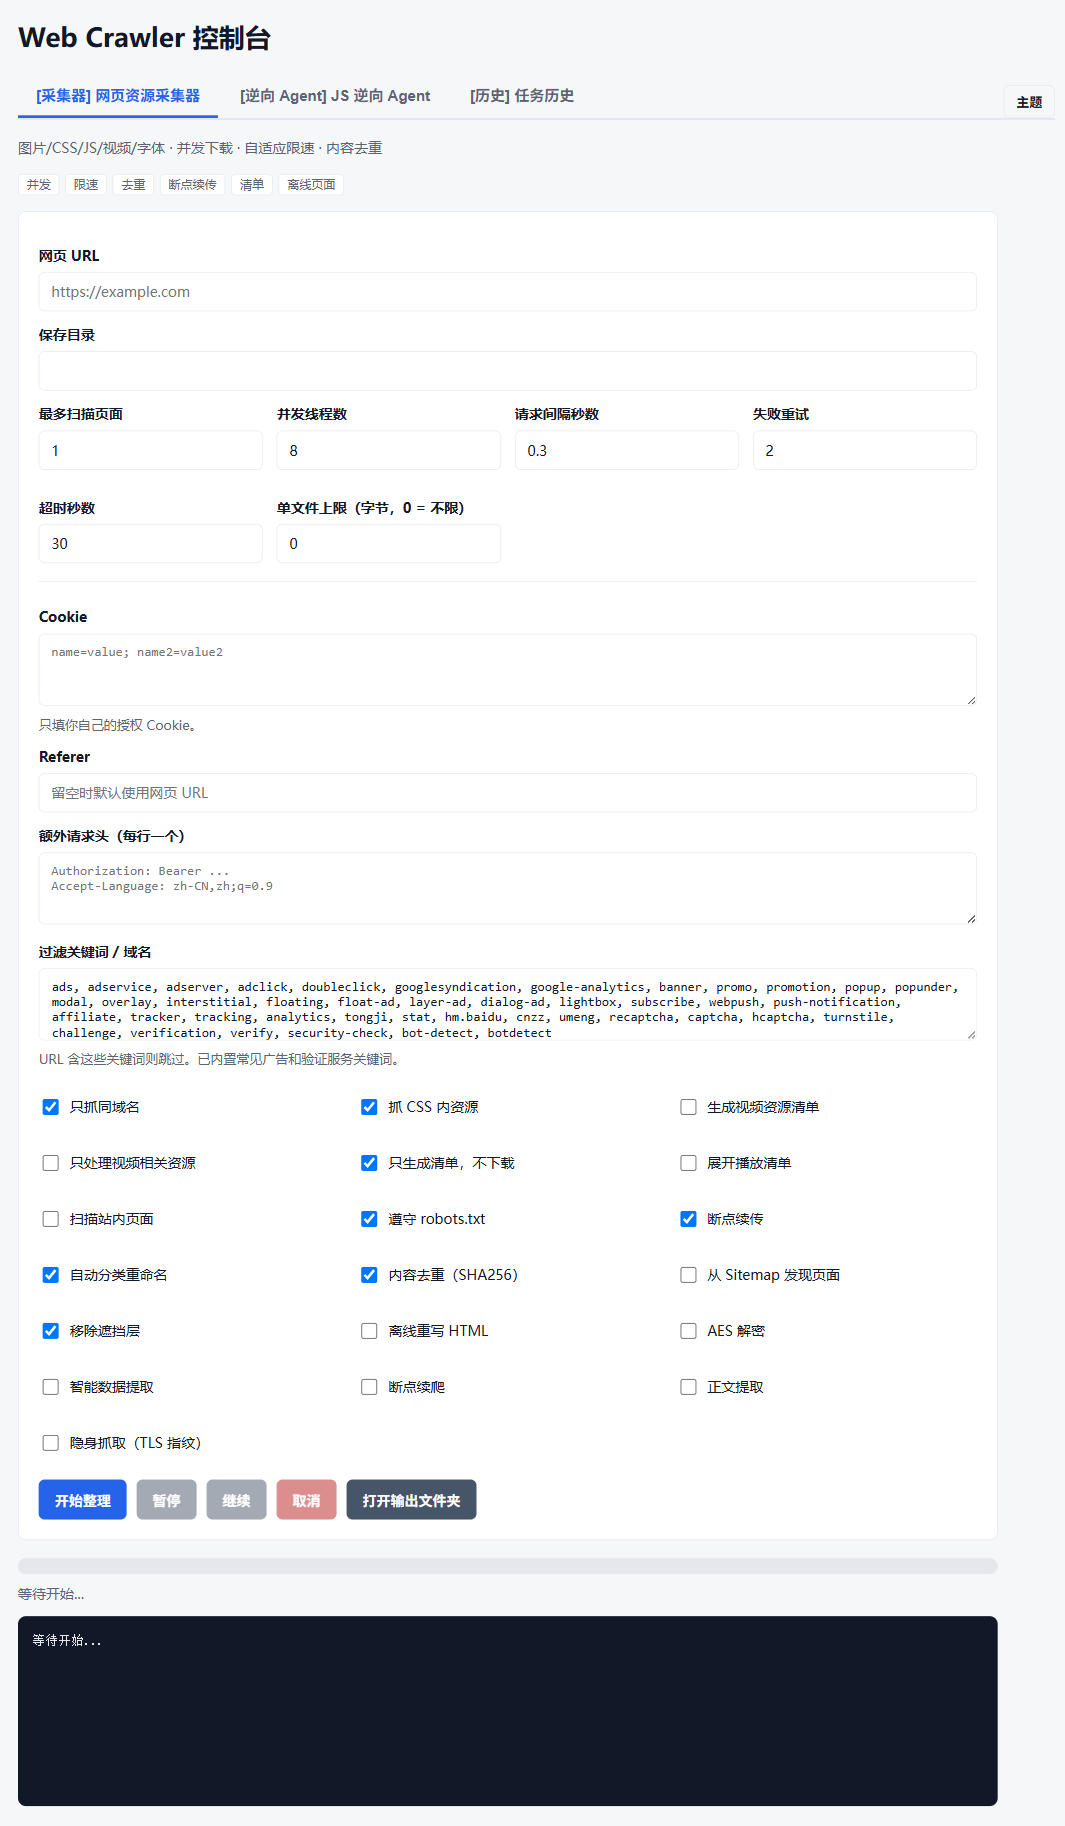
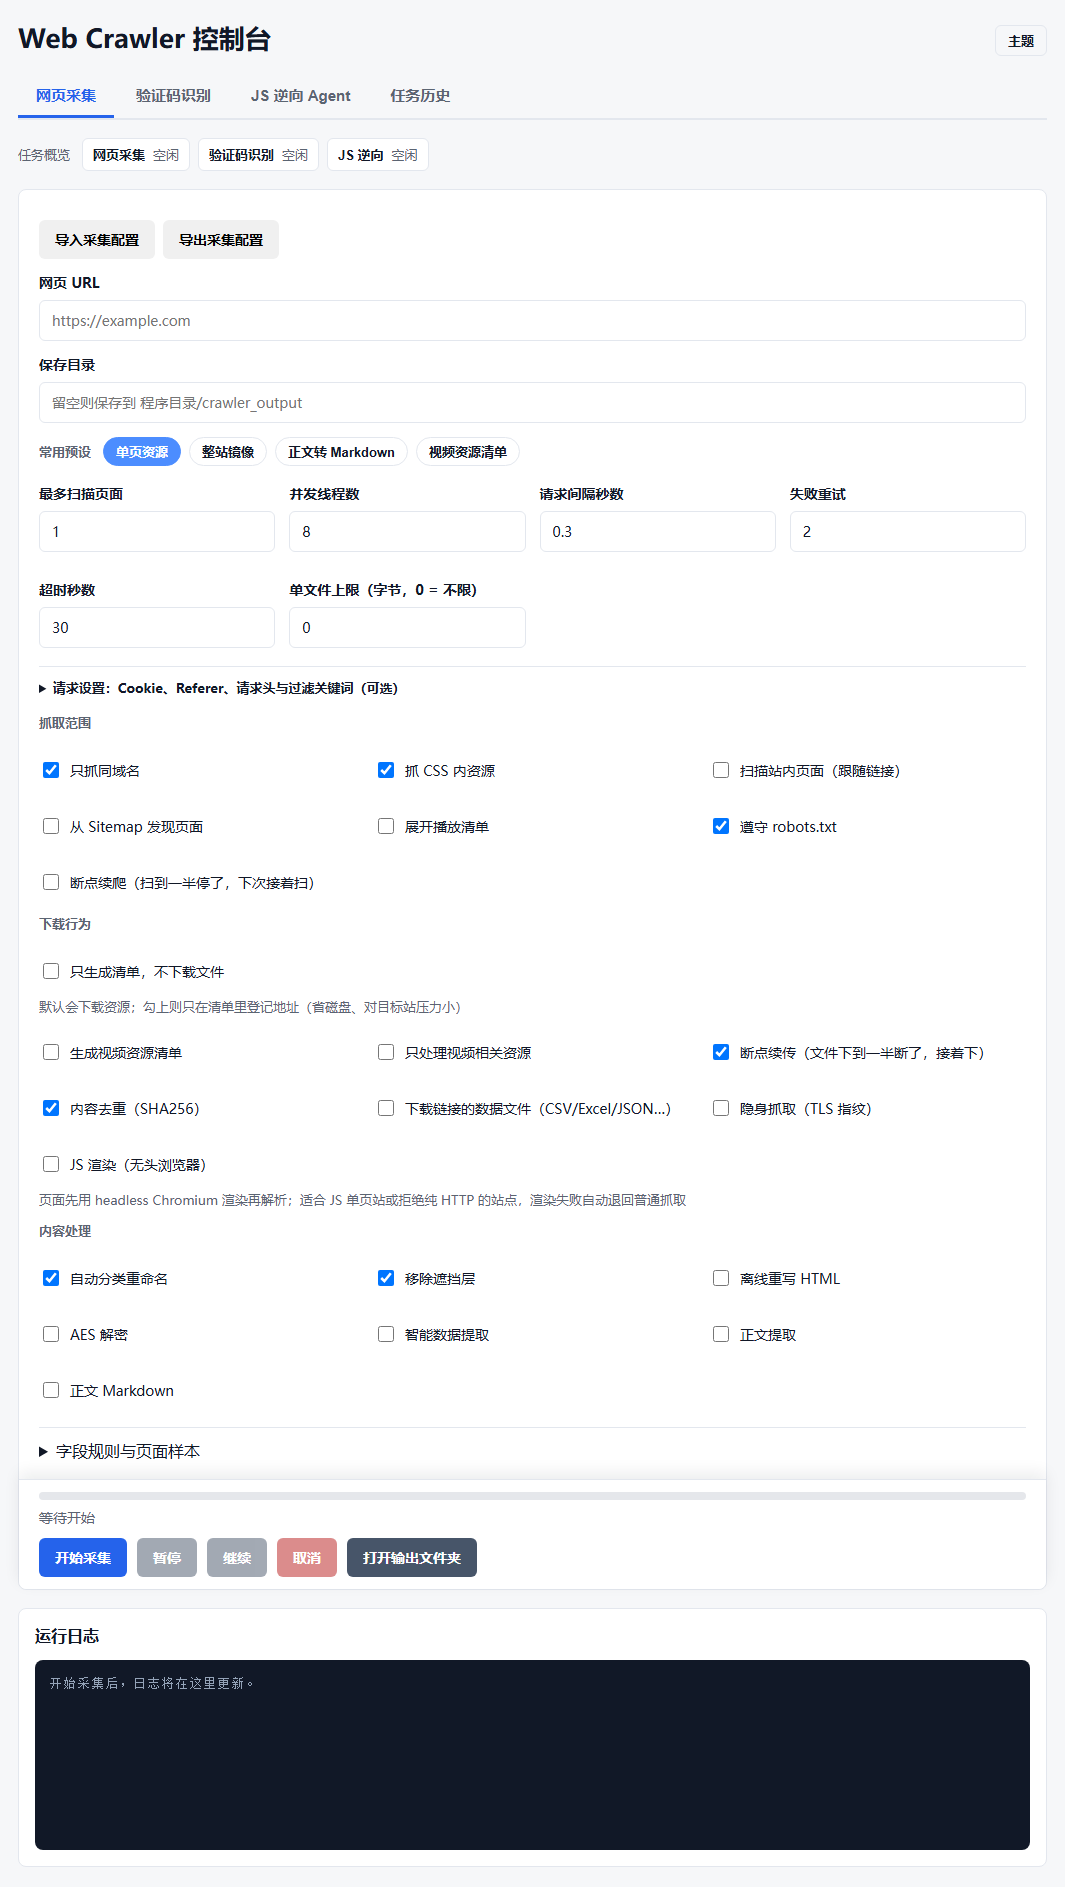
feat(ui): 采集预设与冲突置灰、移动端触控，文档收尾
- 「常用预设」一键套用并高亮；list_only 时仅下载阶段生效的选项置灰（不禁用、不改提交字段）
- 预设按钮移动端 44px 触控高度；请求设置折叠；修正抓取范围标题间距
- crawler-ui --help 的 prog 改为 crawler-ui
- README / quickstart 补 Web UI 三分钟、命令数（7 个）与满血版启动器说明
- 重拍控制台截图

diff --git a/src/web_crawler/app/static/index.html b/src/web_crawler/app/static/index.html
@@ -70,6 +70,21 @@
     textarea { min-height: 72px; resize: vertical; font-family: Consolas, monospace; font-size: 13px; }
     .row { display: grid; grid-template-columns: repeat(4, 1fr); gap: 14px; }
     .opt-group { margin-bottom: 14px; }
+    /* 折叠的「请求设置」后面紧跟「抓取范围」标题，需要额外上边距，否则标题贴着摘要行 */
+    .section + .opt-group { margin-top: 18px; }
+    /* 选项网格里的说明文字独占一整行，避免挤进某个格子把后续复选框顶乱 */
+    .grid > .hint { grid-column: 1 / -1; margin-top: -4px; }
+    /* 预设按钮条 */
+    .preset-bar { display: flex; flex-wrap: wrap; align-items: center; gap: 8px; margin: 14px 0 4px; }
+    .preset-label { font-size: 13px; font-weight: 600; color: var(--muted); margin-right: 4px; }
+    .preset-btn { padding: 5px 12px; border-radius: 999px; border: 1px solid var(--border); background: transparent; color: var(--text); font-size: 13px; cursor: pointer; }
+    .preset-btn:hover { border-color: var(--accent, #4c8dff); }
+    .preset-btn[aria-pressed="true"] { background: var(--accent, #4c8dff); border-color: var(--accent, #4c8dff); color: #fff; }
+    .preset-status { margin: 0 0 0 4px; }
+    /* 当前组合下不生效的选项：置灰但保留勾选值（仍随表单提交，不改变既有语义） */
+    .is-moot { opacity: .45; }
+    .is-moot::after { content: "（当前不生效）"; font-size: 12px; font-weight: 400; color: var(--muted); }
+    #crawler-request-settings > summary { cursor: pointer; font-weight: 600; font-size: 13px; }
     .opt-group h4 { margin: 0 0 8px; font-size: 13px; color: var(--text-muted, #888); font-weight: 600; }
     .grid { display: grid; grid-template-columns: repeat(3, minmax(0, 1fr)); gap: 12px 18px; margin-top: 14px; }
     .check { display: flex; align-items: center; gap: 8px; font-weight: 500; color: var(--text); font-size: 14px; cursor: pointer; }
@@ -106,6 +121,8 @@
       .action-dock { padding: 10px 20px; }
       .action-dock .buttons { gap: 8px; }
       .action-dock .buttons button { flex: 1 1 auto; padding: 10px 12px; }
+      /* 触控目标不低于 44px；桌面端保持胶囊按钮的紧凑高度 */
+      .preset-btn { min-height: 44px; }
     }
 
     /* ========== JS 逆向 Agent 面板 ========== */
@@ -354,6 +371,14 @@
           <label for="out">保存目录</label>
           <input id="out" name="out" type="text" value="" placeholder="留空则保存到 程序目录/crawler_output">
 
+          <div class="preset-bar" role="group" aria-label="常用预设">
+            <span class="preset-label">常用预设</span>
+            <button type="button" class="preset-btn" data-preset="single" title="只抓当前页的图片、CSS、JS 等资源并下载">单页资源</button>
+            <button type="button" class="preset-btn" data-preset="mirror" title="跟随站内链接与 Sitemap，重写 HTML 便于离线浏览">整站镜像</button>
+            <button type="button" class="preset-btn" data-preset="markdown" title="只把正文转成 Markdown，不下载页面资源">正文转 Markdown</button>
+            <button type="button" class="preset-btn" data-preset="video" title="只登记视频相关资源地址（含播放列表地址），不展开分段、不下载文件">视频资源清单</button>
+            <span id="preset-status" class="hint preset-status" role="status"></span>
+          </div>
           <div class="row">
             <div><label for="max_pages">最多扫描页面</label><input id="max_pages" name="max_pages" type="number" min="1" value="1"></div>
             <div><label for="workers">并发线程数</label><input id="workers" name="workers" type="number" min="1" max="64" value="8"></div>
@@ -366,7 +391,8 @@
             <div></div><div></div>
           </div>
 
-          <div class="section">
+          <details id="crawler-request-settings" class="section">
+            <summary>请求设置：Cookie、Referer、请求头与过滤关键词（可选）</summary>
             <label for="cookie">Cookie</label>
             <textarea id="cookie" name="cookie" placeholder="name=value; name2=value2"></textarea>
             <div class="hint">只填你自己的授权 Cookie。</div>
@@ -380,7 +406,7 @@
             <label for="block_keywords">过滤关键词 / 域名</label>
             <textarea id="block_keywords" name="block_keywords">{block_keywords}</textarea>
             <div class="hint">URL 含这些关键词则跳过。已内置常见广告和验证服务关键词。</div>
-          </div>
+          </details>
 
           <div class="opt-group">
             <h4>抓取范围</h4>
@@ -817,6 +843,11 @@
         else field.value = config[name] == null ? '' : String(config[name]);
       });
       if (config.field_rules) document.getElementById('crawler-rule-settings').open = true;
+      if (window.__crawlPresetSync) window.__crawlPresetSync();
+      // 导入的配置带了请求设置时自动展开，避免用户看不到被填进折叠区的值
+      if (['referer', 'headers'].some(function(n) { return config[n]; }) || (config.block_keyword && config.block_keyword.length)) {
+        document.getElementById('crawler-request-settings').open = true;
+      }
     }
     var configFeedback = document.getElementById('crawl-config-status');
     var configFile = document.getElementById('crawl-config-file');
@@ -2601,6 +2632,74 @@
 
     capRefreshJobs();
     setInterval(capRefreshJobs, 15000);
+  })();
+  </script>
+  <script>
+  // 采集预设 + 选项冲突提示。只改复选框/数字框的值，不禁用任何控件，
+  // 因此提交的表单字段与手动勾选完全一致。
+  (function() {
+    var form = document.getElementById('crawler-form');
+    if (!form) return;
+    var BASE = {
+      same_domain: true, include_css_urls: true, crawl_pages: false, sitemap: false,
+      expand_playlists: false, resume_crawl: false, list_only: false, video_mode: false,
+      video_only: false, resume: true, dedup: true, download_linked_data: false,
+      organize: true, strip_overlays: true, rewrite_html: false, smart_extract: false,
+      extract_text: false, extract_markdown: false
+    };
+    var PRESETS = {
+      single: { checks: {}, max_pages: 1, label: '单页资源' },
+      mirror: { checks: { crawl_pages: true, sitemap: true, rewrite_html: true, resume_crawl: true, organize: false }, max_pages: 200, label: '整站镜像' },
+      markdown: { checks: { list_only: true, extract_markdown: true }, max_pages: 1, label: '正文转 Markdown' },
+      video: { checks: { list_only: true, video_mode: true, video_only: true }, max_pages: 1, label: '视频资源清单' }
+    };
+    // 勾选「只生成清单」后不再下载文件，这些只在下载阶段起作用的选项不会生效
+    var MOOT_WHEN_LIST_ONLY = ['resume', 'dedup', 'decrypt', 'include_css_urls', 'expand_playlists', 'max_bytes'];
+    var buttons = Array.prototype.slice.call(document.querySelectorAll('.preset-btn'));
+    var statusEl = document.getElementById('preset-status');
+    var el = function(name) { return form.elements.namedItem(name); };
+
+    function presetValues(key) {
+      var p = PRESETS[key], v = {};
+      Object.keys(BASE).forEach(function(k) { v[k] = k in p.checks ? p.checks[k] : BASE[k]; });
+      return v;
+    }
+    function matchesPreset(key) {
+      var v = presetValues(key);
+      var ok = Object.keys(v).every(function(k) { var f = el(k); return !f || f.checked === v[k]; });
+      var mp = el('max_pages');
+      return ok && (!mp || Number(mp.value) === PRESETS[key].max_pages);
+    }
+    function syncMoot() {
+      var listOnly = el('list_only') && el('list_only').checked;
+      MOOT_WHEN_LIST_ONLY.forEach(function(name) {
+        var f = el(name); if (!f) return;
+        var box = f.type === 'checkbox' ? f.closest('label') : f.closest('div');
+        if (!box) return;
+        box.classList.toggle('is-moot', !!listOnly);
+        if (listOnly) box.title = '已勾选「只生成清单，不下载文件」，此项只在下载时生效';
+        else box.removeAttribute('title');
+      });
+    }
+    function sync() {
+      var active = null;
+      Object.keys(PRESETS).forEach(function(k) { if (!active && matchesPreset(k)) active = k; });
+      buttons.forEach(function(b) { b.setAttribute('aria-pressed', String(b.dataset.preset === active)); });
+      statusEl.textContent = active ? '' : '当前为自定义组合';
+      syncMoot();
+    }
+    function apply(key) {
+      var v = presetValues(key);
+      Object.keys(v).forEach(function(k) { var f = el(k); if (f) f.checked = v[k]; });
+      var mp = el('max_pages'); if (mp) mp.value = PRESETS[key].max_pages;
+      sync();
+      statusEl.textContent = '已应用「' + PRESETS[key].label + '」，可继续微调下面的选项';
+    }
+    buttons.forEach(function(b) { b.addEventListener('click', function() { apply(b.dataset.preset); }); });
+    form.addEventListener('change', sync);
+    form.addEventListener('input', function(e) { if (e.target && e.target.name === 'max_pages') sync(); });
+    window.__crawlPresetSync = sync;
+    sync();
   })();
   </script>
 </body>

diff --git a/tests/test_ui_presets.py b/tests/test_ui_presets.py
@@ -1,0 +1,55 @@
+"""控制台采集预设：预设与冲突提示引用的字段必须真实存在于采集表单。
+
+预设脚本按 name 查找表单控件，字段改名后会静默失效，这里做静态防线。
+"""
+
+from __future__ import annotations
+
+import re
+
+from web_crawler.app import _ui_helpers as ui
+
+
+def _crawler_form_names() -> set[str]:
+    page = ui.PAGE
+    start = page.index('<form id="crawler-form">')
+    end = page.index("</form>", start)
+    return set(re.findall(r'name="([a-z_]+)"', page[start:end]))
+
+
+def _preset_script() -> str:
+    page = ui.PAGE
+    start = page.index("var BASE = {")
+    return page[start : page.index("window.__crawlPresetSync = sync", start)]
+
+
+def test_preset_buttons_cover_all_presets():
+    script = _preset_script()
+    declared = set(re.findall(r"^\s{6}(\w+): \{ checks:", script, re.MULTILINE))
+    buttons = set(re.findall(r'data-preset="(\w+)"', ui.PAGE))
+    assert declared == buttons == {"single", "mirror", "markdown", "video"}
+
+
+def test_preset_fields_exist_in_form():
+    names = _crawler_form_names()
+    script = _preset_script()
+    base = script[: script.index("};")]
+    referenced = set(re.findall(r"(\w+): (?:true|false)", script)) | set(
+        re.findall(r"(\w+): (?:true|false)", base)
+    )
+    moot = re.search(r"MOOT_WHEN_LIST_ONLY = \[(.*?)\]", script).group(1)
+    referenced |= set(re.findall(r"'(\w+)'", moot))
+    missing = referenced - names
+    assert not missing, f"预设引用了表单中不存在的字段：{sorted(missing)}"
+
+
+def test_single_preset_matches_form_defaults():
+    """首次打开页面时应自动高亮「单页资源」：BASE 必须与表单默认勾选一致。"""
+    page = ui.PAGE
+    form = page[page.index('<form id="crawler-form">') : page.index("</form>")]
+    base = _preset_script()
+    base = base[: base.index("};")]
+    for name, value in re.findall(r"(\w+): (true|false)", base):
+        tag = re.search(rf'<input type="checkbox" name="{name}"[^>]*>', form)
+        assert tag, name
+        assert ("checked" in tag.group(0)) == (value == "true"), name

diff --git a/src/web_crawler/app/ui.py b/src/web_crawler/app/ui.py
@@ -83,7 +83,7 @@ def main() -> None:
 
     from web_crawler import __version__
 
-    _parser = _ap.ArgumentParser(description="Web Resource Crawler UI")
+    _parser = _ap.ArgumentParser(prog="crawler-ui", description="Web 资源采集控制台（本地 Web UI）")
     _parser.add_argument(
         "-V",
         "--version",

diff --git a/README.md b/README.md
@@ -15,6 +15,15 @@ Scrapling 风格的隐身网页爬虫库：**自适应选择器**、**TLS 指纹
 
 📖 **完整文档**（架构详解 / API 参考 / 逆向 Agent 手册）：[https://xiaomaozjj666.github.io/web-crawler/](https://xiaomaozjj666.github.io/web-crawler/)
 
+## 最快上手
+
+```bash
+pip install "stealth-web-crawler[all]"    # 核心 + TLS 隐身 + JS 渲染；源码安装见「安装与运行」
+python -m web_crawler.app.ui --open       # 本地控制台：http://127.0.0.1:8765
+```
+
+写代码时导入名是 `web_crawler`（发行名是 `stealth-web-crawler`）；抓取 / 解析 / Spider 三段示例见 [快速开始](#快速开始)，Docker 与 MCP 接入见 [安装与运行](#安装与运行)。
+
 ## 分层架构
 
 ```mermaid
@@ -43,7 +52,7 @@ flowchart TB
 
 ## 界面预览
 
-本地 Web UI（`python -m web_crawler.app.ui`，默认 http://127.0.0.1:8765）：网页采集（图片/JS/视频/文件下载、并发与断点续传）、JS 逆向 Agent、任务历史三个入口，SSE 实时推送进度与日志。
+本地 Web UI（`python -m web_crawler.app.ui`，默认 http://127.0.0.1:8765）：网页采集（图片/JS/视频/文件下载、并发与断点续传）、JS 逆向 Agent、任务历史三个入口，SSE 实时推送进度与日志。表单顶部提供「常用预设」（单页资源 / 整站镜像 / 正文转 Markdown / 视频资源清单），一键勾好一组选项后仍可微调；勾选「只生成清单，不下载文件」后，仅下载阶段生效的选项会置灰并标注「当前不生效」，但不会禁用控件、也不改变提交的字段。
 
 | 网页采集控制台 · 本地 Web UI |
 | :---: |
@@ -353,10 +362,11 @@ playwright install chromium        # 仅 DynamicFetcher / StealthyFetcher 需要
 | `web-crawler-reverse` | JS 逆向 Agent 命令行 |
 | `web-crawler-startproject` | 爬虫项目脚手架（对标 `scrapy startproject`）：生成含示例 Spider 的可跑骨架 |
 | `web-crawler-shell` | 交互式调试 shell（对标 `scrapy shell`）：`fetch <url>` 后即时试 css/xpath/links |
+| `web-captcha` | 图片验证码识别 CLI（文本 OCR / 滑块定位 / 点选坐标） |
 
 ### 统一 CLI 输出与爬取反馈
 
-六个入口均提供互斥的 `-q/--quiet`、`-v/--verbose`、`--json`：
+七个入口均提供互斥的 `-q/--quiet`、`-v/--verbose`、`--json`：
 
 | 模式 | 行为 |
 | --- | --- |
@@ -428,9 +438,9 @@ py -m web_crawler.app.ui --host 0.0.0.0 --port 8765 --allow-remote
 PYTHONPATH=src python -m web_crawler.app.ui --open
 ```
 
-> 本仓库不附带任何一键启动脚本。个人如需解锁内网/云元数据目标，可在
-> **自己的可信环境**里设置 `WEB_CRAWLER_POWER_MODE=1` 后运行
-> （见下方 [Power Mode](#-power-mode个人全解锁默认关闭) 章节）。
+> 仓库根目录的 `启动爬虫-满血版.cmd` 是个人可信环境用的启动器：它会设置
+> `WEB_CRAWLER_POWER_MODE=1`（解锁内网/云元数据目标），**不要**在有真实
+> 凭据的机器上随意运行。常规使用请按上面的 `web-crawler` / `crawler-ui` 启动。
 
 ### Docker
 

diff --git a/docs/quickstart.md b/docs/quickstart.md
@@ -44,10 +44,16 @@ playwright install chromium      # 仅 DynamicFetcher / StealthyFetcher 需要
     需要 `[dev]` 开发工具（pytest / ruff / mypy）时，克隆仓库后运行
     `pip install -e ".[dev]"`。
 
-安装成功后会自动注册六个命令：`web-crawler`（资源下载 CLI）、`crawler-ui`
+安装成功后会自动注册七个命令：`web-crawler`（资源下载 CLI）、`crawler-ui`
 （本地 Web UI）、`web-crawler-mcp`（MCP 服务）、`web-crawler-reverse`
 （JS 逆向 CLI）、`web-crawler-startproject`（项目脚手架）、
-`web-crawler-shell`（交互式调试 shell）。
+`web-crawler-shell`（交互式调试 shell）、`web-captcha`（图片验证码识别 CLI）。
+
+!!! tip "本地 Web UI：三分钟"
+    资源采集也可以完全不开命令行——运行 `crawler-ui --open`（默认
+    http://127.0.0.1:8765）后，在「网页采集」页填 URL、点「常用预设」
+    （单页资源 / 整站镜像 / 正文转 Markdown / 视频资源清单）再点「开始采集」即可；
+    SSE 实时推送进度，勾选「只生成清单」后仅下载阶段生效的选项会自动置灰。
 
 ## 第一个请求：隐身抓取
 
